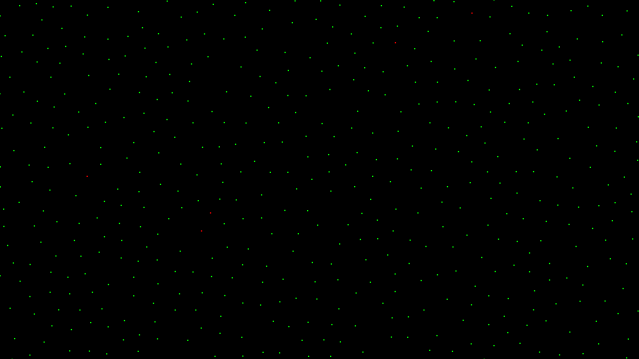
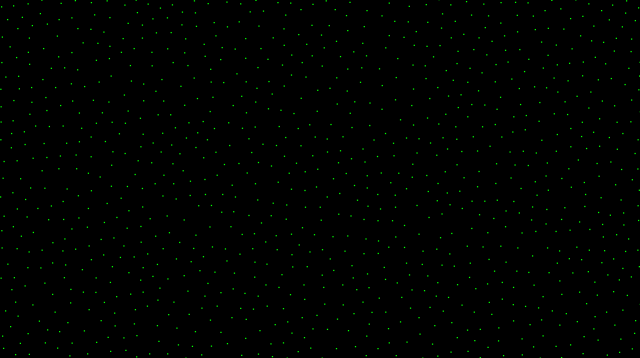
images

Changed region(s): [[0.2081, 0.9832, 0.2379, 1.0]]

diff --git a/src/canvas.rs b/src/canvas.rs
@@ -65,13 +65,13 @@ impl Canvas {
         let points = self.points.as_mut().unwrap();
         self.window.draw_2d(e, |c, gl, _| {
             clear(constants::BLACK, gl);
-            for (i, point) in points.iter().enumerate() {
-                let colour = if (i + 1) % 100 == 0 {
-                    constants::RED
-                } else {
-                    constants::GREEN
-                };
-                rectangle(colour, [point.x, point.y, 5.0, 5.0], c.transform, gl);
+            for point in points {
+                rectangle(
+                    constants::GREEN,
+                    [point.x, point.y, 5.0, 5.0],
+                    c.transform,
+                    gl,
+                );
             }
         });
     }

diff --git a/src/main.rs b/src/main.rs
@@ -41,8 +41,8 @@ use canvas::Canvas;
 */
 
 fn main() {
-    let point_count = 500;
-    let min_distance = 65.0;
+    let point_count = 1000;
+    let min_distance = 48.0;
 
     Canvas::new(point_count, min_distance).show();
 }
